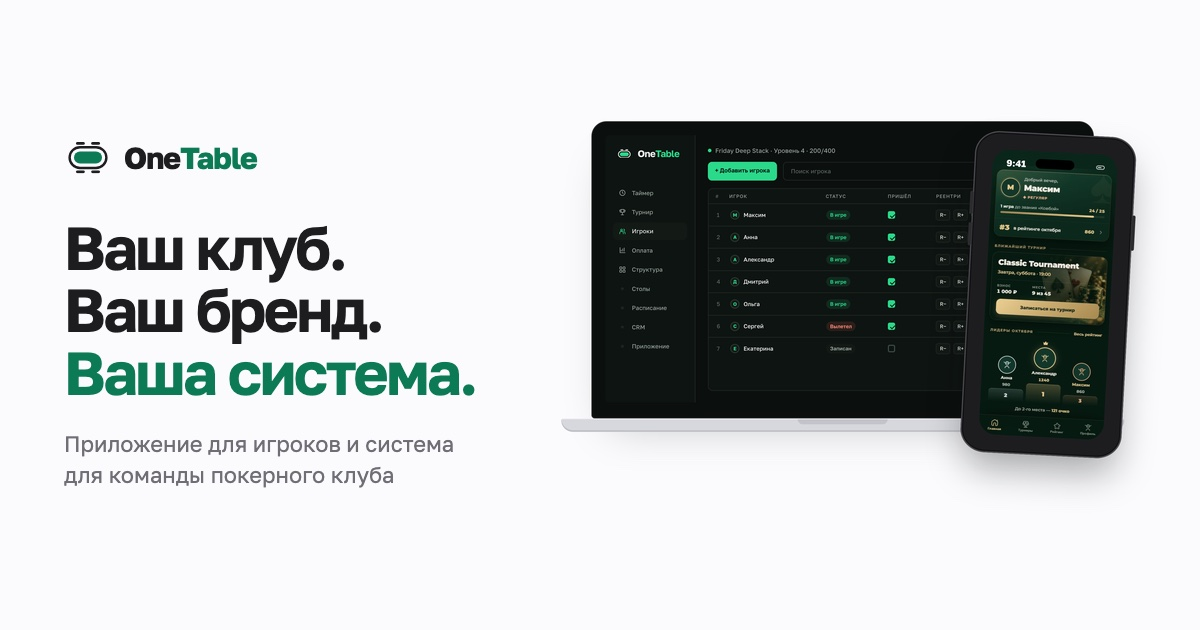
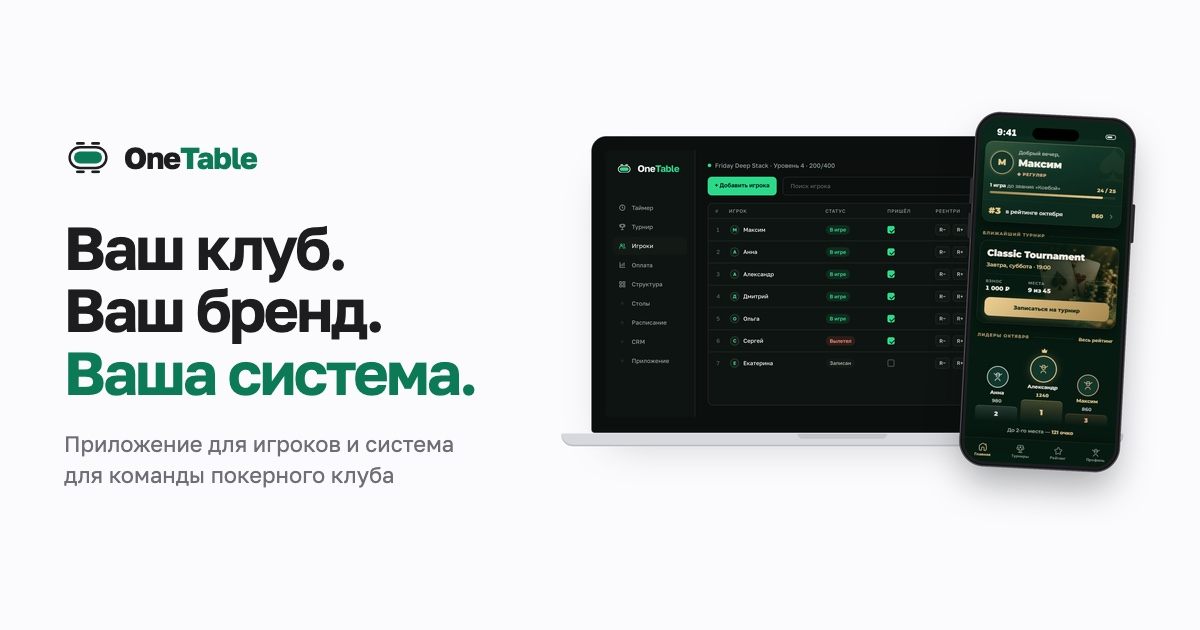
iPhone: thin pixel bezel so the app fills the screen; visible «Смотреть 90 секунд» pill; poster and og-image re-rendered

diff --git a/index.html b/index.html
@@ -6,11 +6,11 @@
 <link rel="canonical" href="https://frimarion.github.io/onetable/">
 <meta property="og:type" content="website"><meta property="og:site_name" content="OneTable"><meta property="og:locale" content="ru_RU">
 <meta property="og:title" content="OneTable — платформа для управления покерным клубом"><meta property="og:description" content="Приложение под брендом вашего клуба и покерная система: таймер, турниры, админ-панель и CRM — в одной платформе."><meta property="og:url" content="https://frimarion.github.io/onetable/">
-<meta property="og:image" content="https://frimarion.github.io/onetable/og-image.jpg?v=3"><meta property="og:image:type" content="image/jpeg"><meta property="og:image:width" content="1200"><meta property="og:image:height" content="630"><meta property="og:image:alt" content="OneTable: админ-панель и мобильное приложение игрока покерного клуба">
-<meta name="twitter:card" content="summary_large_image"><meta name="twitter:title" content="OneTable — платформа для управления покерным клубом"><meta name="twitter:description" content="Приложение под брендом вашего клуба и покерная система: таймер, турниры, админ-панель и CRM — в одной платформе."><meta name="twitter:image" content="https://frimarion.github.io/onetable/og-image.jpg?v=3">
+<meta property="og:image" content="https://frimarion.github.io/onetable/og-image.jpg?v=4"><meta property="og:image:type" content="image/jpeg"><meta property="og:image:width" content="1200"><meta property="og:image:height" content="630"><meta property="og:image:alt" content="OneTable: админ-панель и мобильное приложение игрока покерного клуба">
+<meta name="twitter:card" content="summary_large_image"><meta name="twitter:title" content="OneTable — платформа для управления покерным клубом"><meta name="twitter:description" content="Приложение под брендом вашего клуба и покерная система: таймер, турниры, админ-панель и CRM — в одной платформе."><meta name="twitter:image" content="https://frimarion.github.io/onetable/og-image.jpg?v=4">
 <title>OneTable — платформа для управления покерным клубом</title>
 <meta name="description" content="Приложение под брендом вашего клуба и покерная система: таймер, турниры, админ-панель и CRM — в одной платформе.">
-<link rel="icon" href="logo.svg" type="image/svg+xml"><link rel="preconnect" href="https://fonts.googleapis.com"><link rel="preconnect" href="https://fonts.gstatic.com" crossorigin><link rel="stylesheet" href="https://fonts.googleapis.com/css2?family=Golos+Text:wght@400..750&family=JetBrains+Mono:wght@500&display=swap"><link rel="stylesheet" href="site.css?v=35">
+<link rel="icon" href="logo.svg" type="image/svg+xml"><link rel="preconnect" href="https://fonts.googleapis.com"><link rel="preconnect" href="https://fonts.gstatic.com" crossorigin><link rel="stylesheet" href="https://fonts.googleapis.com/css2?family=Golos+Text:wght@400..750&family=JetBrains+Mono:wght@500&display=swap"><link rel="stylesheet" href="site.css?v=36">
 </head>
 <body>
 <svg class="svg-library" xmlns="http://www.w3.org/2000/svg"><symbol id="arrow" viewBox="0 0 24 24"><path d="M5 12h14m-5-5 5 5-5 5"/></symbol><symbol id="check" viewBox="0 0 24 24"><path d="m5 12 4 4L19 6"/></symbol><symbol id="grid" viewBox="0 0 24 24"><rect x="3" y="3" width="7" height="7" rx="2"/><rect x="14" y="3" width="7" height="7" rx="2"/><rect x="3" y="14" width="7" height="7" rx="2"/><rect x="14" y="14" width="7" height="7" rx="2"/></symbol><symbol id="users" viewBox="0 0 24 24"><circle cx="9" cy="8" r="3"/><path d="M3 21v-3a6 6 0 0 1 12 0v3m1-16a3 3 0 0 1 0 6m2 3a5 5 0 0 1 3 5v2"/></symbol><symbol id="chart" viewBox="0 0 24 24"><path d="M4 3v17h17M8 15v-4m5 4V7m5 8V4"/></symbol><symbol id="clock" viewBox="0 0 24 24"><circle cx="12" cy="12" r="9"/><path d="M12 7v5l3 2"/></symbol><symbol id="cup" viewBox="0 0 24 24"><path d="M7 3h10v5a5 5 0 0 1-10 0V3Zm0 2H3v3a4 4 0 0 0 5 4m9-7h4v3a4 4 0 0 1-5 4m-4 1v7m-4 1h8"/></symbol><symbol id="play" viewBox="0 0 24 24"><path d="m9 5 11 7-11 7Z"/></symbol></svg>
@@ -25,11 +25,11 @@
 <figure class="trust-quote is-placeholder"><blockquote><p>«Здесь будет цитата владельца или администратора клуба: что изменилось в работе после перехода на OneTable.»</p></blockquote><figcaption><span class="quote-mark" aria-hidden="true">Д</span><span><b>Имя Фамилия</b><small>Должность, название клуба</small></span></figcaption></figure>
 </div></section>
 <section class="section app-section" id="app"><div class="container app-layout"><div class="app-art"><div class="app-phone iphone" id="brand-phone"><div class="iphone-screen"><span class="iphone-island" aria-hidden="true"></span><span class="iphone-status" aria-hidden="true"><b>9:41</b><i></i></span><button class="screen-zoom" data-screen="doyle-player-home.png" data-title="Приложение Doyle: профиль, турнир и рейтинг" aria-label="Увеличить экран: приложение Doyle"><img src="doyle-player-home.png" alt="Приложение клуба Doyle: профиль игрока, ближайший турнир и рейтинг" width="390" height="844" loading="lazy"></button><span class="brand-tint" aria-hidden="true"></span></div></div><span class="app-caption">Реальный экран приложения Doyle</span></div><div class="app-copy"><div class="eyebrow">01 / ПРИЛОЖЕНИЕ ВАШЕГО КЛУБА</div><h2>Ваше приложение. <br><span class="green">Для ваших игроков.</span></h2><p>От первой записи до следующей победы. Расписание, личный прогресс и жизнь клуба — в приложении с вашим названием и стилем.</p><ul class="check-list"><li>Название, логотип и цвета вашего клуба</li><li>Запись на турнир с телефона</li><li>Профиль, уровни, достижения и рейтинг</li><li>Анонсы и итоги турниров в Telegram</li></ul><div class="brand-picker"><span>Примерьте цвет клуба</span><div role="group" aria-label="Цвет оформления приложения"><button class="swatch selected" style="--swatch:#0B7A55" data-color="" aria-label="Зелёный, как у Doyle" aria-pressed="true"></button><button class="swatch" style="--swatch:#F25A0A" data-color="#F25A0A" aria-label="Оранжевый" aria-pressed="false"></button><button class="swatch" style="--swatch:#2F6BFF" data-color="#2F6BFF" aria-label="Синий" aria-pressed="false"></button><button class="swatch" style="--swatch:#C4231A" data-color="#C4231A" aria-label="Красный" aria-pressed="false"></button></div></div><a class="inline-link" href="#contact" data-contact>Хочу такое для своего клуба <svg><use href="#arrow"/></svg></a></div></div></section><section class="section system-section" id="system"><div class="container"><div class="section-heading"><div><div class="eyebrow">02 / СИСТЕМА ДЛЯ КОМАНДЫ</div><h2>Одно приложение. <br><span class="muted-heading">У каждого — свои инструменты.</span></h2></div><p>Админ-панель, таймер, CRM и отчёты работают вместе с приложением игроков. Выберите роль — покажем, с чем она работает.</p></div><div class="system-layout"><div class="role-tabs" role="tablist" aria-label="Роли в клубе"><button class="role-tab active" role="tab" id="role-tab-admin" aria-controls="role-panel-admin" aria-selected="true" tabindex="0"><img class="role-tab-persona" src="role-admin.webp?v=2" alt="" width="295" height="640" loading="lazy" decoding="async"><span class="role-tab-body"><small>АДМИНИСТРАТОР</small><span class="role-tab-point">Записи и регистрация игроков</span><span class="role-tab-point">Отметка прихода и рассадка по столам</span><span class="role-tab-point">Реентри, вылеты и оплаты в одном месте</span></span></button><button class="role-tab" role="tab" id="role-tab-floor" aria-controls="role-panel-floor" aria-selected="false" tabindex="-1"><img class="role-tab-persona" src="role-floor.webp?v=2" alt="" width="330" height="640" loading="lazy" decoding="async"><span class="role-tab-body"><small>ФЛОР</small><span class="role-tab-point">Настраиваемый таймер и структура блайндов</span><span class="role-tab-point">Экран для зала в стиле вашего клуба</span><span class="role-tab-point">Учёт вылетов и реентри по ходу игры</span></span></button><button class="role-tab" role="tab" id="role-tab-owner" aria-controls="role-panel-owner" aria-selected="false" tabindex="-1"><img class="role-tab-persona" src="role-owner.webp?v=2" alt="" width="278" height="640" loading="lazy" decoding="async"><span class="role-tab-body"><small>ВЛАДЕЛЕЦ</small><span class="role-tab-point">CRM и база игроков клуба</span><span class="role-tab-point">Результаты турниров и рейтинг</span><span class="role-tab-point">Отчёт по оплатам — в Excel или Google Таблицы</span></span></button></div><div class="role-panels"><div class="role-panel" role="tabpanel" id="role-panel-admin" aria-labelledby="role-tab-admin"><div class="role-stage"><span class="role-kicker">АДМИН-ПАНЕЛЬ · ONETABLE</span><div class="role-screen role-screen-mock"><div class="admin-mock" role="img" aria-label="Панель администратора OneTable: список игроков турнира, отметка прихода и реентри"><aside class="am-side"><div class="am-logo"><img src="logo-dark.svg" alt=""><b>One<span>Table</span></b></div><ul><li><svg><use href="#clock"/></svg>Таймер</li><li><svg><use href="#cup"/></svg>Турнир</li><li class="on"><svg><use href="#users"/></svg>Игроки</li><li><svg><use href="#chart"/></svg>Оплата</li><li><svg><use href="#grid"/></svg>Структура</li><li><i></i>Столы</li><li><i></i>Расписание</li><li><i></i>CRM</li><li><i></i>Приложение</li></ul></aside><div class="am-main"><div class="am-top"><span class="am-live"><i></i>Friday Deep Stack · Уровень 4 · 200/400</span><span class="am-count">Игроки <b>24 / 45</b></span></div><div class="am-tools"><span class="am-add">+ Добавить игрока</span><span class="am-search">Поиск игрока</span></div><div class="am-table"><div class="am-row am-head"><span>#</span><span>Игрок</span><span>Статус</span><span>Пришёл</span><span>Реентри</span><span>KO</span></div><div class="am-row"><span>1</span><span class="am-player"><b>М</b>Максим</span><span class="am-status">В игре</span><span class="am-check on"></span><span class="am-re"><em>R−</em><em>R+</em><small>×1</small></span><span>0</span></div><div class="am-row"><span>2</span><span class="am-player"><b>А</b>Анна</span><span class="am-status">В игре</span><span class="am-check on"></span><span class="am-re"><em>R−</em><em>R+</em></span><span>0</span></div><div class="am-row"><span>3</span><span class="am-player"><b>А</b>Александр</span><span class="am-status">В игре</span><span class="am-check on"></span><span class="am-re"><em>R−</em><em>R+</em></span><span>0</span></div><div class="am-row"><span>4</span><span class="am-player"><b>Д</b>Дмитрий</span><span class="am-status">В игре</span><span class="am-check on"></span><span class="am-re"><em>R−</em><em>R+</em><small>×1</small></span><span>0</span></div><div class="am-row"><span>5</span><span class="am-player"><b>О</b>Ольга</span><span class="am-status">В игре</span><span class="am-check on"></span><span class="am-re"><em>R−</em><em>R+</em></span><span>0</span></div><div class="am-row"><span>6</span><span class="am-player"><b>С</b>Сергей</span><span class="am-status out">Вылетел</span><span class="am-check on"></span><span class="am-re"><em>R−</em><em>R+</em></span><span>0</span></div><div class="am-row"><span>7</span><span class="am-player"><b>Е</b>Екатерина</span><span class="am-status wait">Записан</span><span class="am-check"></span><span class="am-re"><em>R−</em><em>R+</em></span><span>0</span></div></div></div></div></div></div></div><div class="role-panel" role="tabpanel" id="role-panel-floor" aria-labelledby="role-tab-floor" hidden><div class="role-stage"><span class="role-kicker">ЭКРАН ТАЙМЕРА · DOYLE</span><button class="screen-zoom role-screen" data-screen="doyle-display.jpg?v=2" data-title="Doyle — экран таймера в зале" aria-label="Увеличить экран: таймер турнира"><img src="doyle-display.jpg?v=2" alt="Экран таймера Doyle: рейтинг с очками, уровень, блайнды, время и показатели турнира" width="1920" height="1080" loading="lazy"><span class="zoom-hint">Открыть экран ↗</span></button></div></div><div class="role-panel" role="tabpanel" id="role-panel-owner" aria-labelledby="role-tab-owner" hidden><div class="role-stage"><span class="role-kicker">ОТЧЁТ ВЛАДЕЛЬЦА</span><div class="role-screen owner-report" aria-label="Пример отчёта владельца"><div class="owner-head"><b>Обзор клуба</b><span>ИГРОВОЙ ДЕНЬ · ПРИМЕР</span></div><small>Учтено оплат</small><strong>48 000 <span>₽</span></strong><div class="owner-bars" aria-hidden="true"><i style="--h:32%"></i><i style="--h:56%"></i><i style="--h:42%"></i><i style="--h:80%"></i><i style="--h:62%"></i><i style="--h:95%"></i><i style="--h:74%"></i></div><div class="owner-stats"><span><b>36</b> участий</span><span><b>12</b> реентри</span><span><b>48</b> оплат</span></div></div></div></div></div></div></div></section><section class="section workflow" id="workflow"><div class="container"><div class="section-heading"><div><div class="eyebrow">03 / КАК ЭТО РАБОТАЕТ ВМЕСТЕ</div><h2>Один игровой вечер. <br><span class="muted-heading">Без десятка инструментов.</span></h2></div><p>От анонса до итогов — одна система. Данные не нужно переносить между чатами, таблицами и тетрадками.</p></div><div class="day-timeline" aria-label="Пример игрового вечера в OneTable"><div class="tl-head"><span><span class="status-dot"></span> ПЯТНИЦА · FRIDAY DEEP STACK</span><span>ПРИМЕР ВЕЧЕРА</span></div><ol class="tl-list"><li><time>12:00</time><b>Анонс ушёл в Telegram</b><span>Турнир опубликован из макета. Игроки видят его в приложении клуба.</span></li><li><time>15:40</time><b>Запись идёт сама</b><span>24 игрока записались с телефона — без звонков и переписки.</span></li><li><time>18:45</time><b>Гости на месте</b><span>Администратор отмечает пришедших и рассаживает их по столам.</span></li><li class="is-live"><time>19:00</time><b>Таймер запущен</b><span>Уровни и блайнды на экране зала. Реентри и вылеты учитываются по ходу игры.</span></li><li><time>00:20</time><b>Итоги без ручного подсчёта</b><span>Результаты попали в рейтинг и канал клуба, отчёт по оплатам — в таблицу.</span></li></ol></div></div></section>
-<section class="video-section"><div class="container"><div class="video-heading"><div><div class="eyebrow">ПОСМОТРЕТЬ В ДЕЛЕ</div><h2>Весь клуб. <br>За полторы минуты.</h2></div><p>Реальный сценарий работы платформы: <br>от создания турнира до отчёта.</p></div><button class="video-preview" data-video aria-label="Смотреть видеопрезентацию OneTable"><img src="demo-poster.jpg?v=3" alt="Кадр видеопрезентации: приложение игрока и панель организатора" loading="lazy"><span class="video-shade"></span><span class="video-play"><svg><use href="#play"/></svg></span><span class="video-bottom"><b>Познакомьтесь с OneTable</b><span>01:30 <span>↗</span></span></span></button></div></section>
+<section class="video-section"><div class="container"><div class="video-heading"><div><div class="eyebrow">ПОСМОТРЕТЬ В ДЕЛЕ</div><h2>Весь клуб. <br>За полторы минуты.</h2></div><p>Реальный сценарий работы платформы: <br>от создания турнира до отчёта.</p></div><button class="video-preview" data-video aria-label="Смотреть видеопрезентацию OneTable"><img src="demo-poster.jpg?v=4" alt="Кадр видеопрезентации: приложение игрока и панель организатора" loading="lazy"><span class="video-shade"></span><span class="video-play"><svg><use href="#play"/></svg></span><span class="video-bottom"><b>Познакомьтесь с OneTable</b><span>01:30 <span>↗</span></span></span></button></div></section>
 <section class="faq-section"><div class="container faq-grid"><div><div class="eyebrow">ОСТАЛОСЬ УТОЧНИТЬ</div><h2>Хорошие <br>вопросы.</h2></div><div class="faq-list"><details><summary>Что входит в покерную систему?<span>+</span></summary><p>Админ-панель, CRM, настраиваемый таймер, инструменты для турниров и рассадки, учёт участий и оплат, рейтинги и отчёты. Система связана с приложением для игроков, которое оформляем под ваш клуб.</p></details><details><summary>Это покер-рум для игры онлайн?<span>+</span></summary><p>OneTable — платформа для организации работы очного покерного клуба. В неё входят приложение для игроков под брендом клуба, настраиваемый таймер, админ-панель, CRM, управление турнирами и учёт.</p></details><details><summary>Можно использовать название и стиль моего клуба?<span>+</span></summary><p>Да. Создаём приложение с названием, логотипом и цветами вашего клуба. Оформление таймера также можно кастомизировать под фирменный стиль.</p></details><details><summary>Как платформа работает с Telegram?<span>+</span></summary><p>Бот публикует анонсы и итоги турниров в канале клуба. Игроки получают доступ к расписанию и записи через приложение.</p></details><details><summary>Можно выгрузить отчёты?<span>+</span></summary><p>Отчёт по оплатам можно выгрузить для дальнейшей работы в Excel или Google Таблицах.</p></details><details><summary>Что нужно от клуба, чтобы начать?<span>+</span></summary><p>Для приложения — название, логотип и цвета клуба. Для системы — ваш формат турниров: структура блайндов, взносы и правила реентри. Остальное настроим вместе при подключении.</p></details><details><summary>С чего начать и сколько это стоит?<span>+</span></summary><p>Начнём с демонстрации и обсуждения ваших процессов: формата турниров, работы администратора и приложения игроков. Состав решения и стоимость обсудим после знакомства с вашим клубом.</p></details></div></div></section>
 <section class="contact-section" id="contact"><div class="container"><div class="contact-inner"><div class="eyebrow"><span class="status-dot"></span> СЛЕДУЮЩИЙ ХОД — ЗА ВАМИ</div><h2>Давайте соберём <br>ваш клуб в <span>OneTable.</span></h2><p>Обсудим приложение под ваш бренд <br>и систему для всей команды клуба.</p><button class="button button-green" id="contact-open">Подключиться <svg><use href="#arrow"/></svg></button><span class="contact-subline">Начнём с ваших задач.</span></div></div></section>
 </main><footer><div class="container footer-inner"><a class="brand" href="#"><img src="logo.svg" width="40" height="27" alt=""><span>One<span class="green">Table</span></span></a><span>Меньше рутины. Больше игры.</span><span>© <span id="year">2026</span> OneTable</span><a href="#">Наверх ↑</a></div></footer>
-<dialog id="video-dialog" aria-label="Видеопрезентация OneTable"><button class="dialog-close" aria-label="Закрыть видео">×</button><video controls playsinline preload="none" poster="demo-poster.jpg?v=3"><source src="onetable-demo.mp4" type="video/mp4"></video></dialog>
+<dialog id="video-dialog" aria-label="Видеопрезентация OneTable"><button class="dialog-close" aria-label="Закрыть видео">×</button><video controls playsinline preload="none" poster="demo-poster.jpg?v=4"><source src="onetable-demo.mp4" type="video/mp4"></video></dialog>
 <dialog id="contact-dialog" aria-labelledby="contact-title"><button class="dialog-close" aria-label="Закрыть окно">×</button><div class="eyebrow">ЗНАКОМСТВО С ONETABLE</div><h2 id="contact-title">Расскажите <br>о вашем клубе.</h2><p>Оставьте контакт — мы свяжемся, покажем систему и обсудим приложение под ваш бренд.</p>
 <form id="contact-form" class="contact-form" novalidate><label><span>Название клуба</span><input name="club" type="text" autocomplete="organization" required placeholder="Например, Doyle Poker"></label><label><span>Город</span><input name="city" type="text" autocomplete="address-level2" placeholder="Где находится клуб"></label><label><span>Как с вами связаться</span><input name="contact" type="text" autocomplete="off" required placeholder="Telegram @username или телефон"></label><label><span>Что хотите обсудить <i>(необязательно)</i></span><textarea name="message" rows="3" placeholder="Формат турниров, число игроков, пожелания"></textarea></label><label class="hp" aria-hidden="true">Не заполняйте<input name="website" type="text" tabindex="-1" autocomplete="off"></label><button class="button button-green" type="submit"><span class="submit-label">Отправить заявку</span> <svg><use href="#arrow"/></svg></button><p class="form-status" id="form-status" role="status" aria-live="polite"></p></form>
 <div class="form-done" id="form-done" hidden><span class="notice-icon">✓</span><h3>Заявка отправлена</h3><p>Спасибо! Мы свяжемся с вами по указанному контакту.</p><button class="button button-green" type="button" data-close-dialog>Закрыть</button></div>

diff --git a/site.css b/site.css
@@ -2935,3 +2935,52 @@ footer .brand .green {
 .role-screen {
   aspect-ratio: 16/9;
 }
+
+/* iPhone: тонкая рамка в пикселях (проценты в padding считаются от родителя, рамка выходила слишком толстой) */
+.iphone {
+  padding: 7px;
+}
+.hero-phone.iphone {
+  padding: 6px;
+}
+@media (max-width: 640px) {
+  .hero-phone.iphone {
+    padding: 4px;
+  }
+}
+
+/* «Смотреть 90 секунд»: заметная вторая кнопка-пилюля */
+.hero-actions .text-button {
+  gap: 12px;
+  padding: 10px 22px 10px 10px;
+  border: 1px solid var(--line);
+  border-radius: 980px;
+  background: var(--surface);
+  color: var(--ink);
+  font-size: 16px;
+  font-weight: 500;
+  box-shadow: 0 6px 18px -10px #0b0f0d40;
+  transition: border-color .2s, box-shadow .2s;
+  cursor: pointer;
+}
+.hero-actions .text-button:hover {
+  border-color: #c9c9cf;
+  box-shadow: 0 10px 24px -12px #0b0f0d59;
+}
+.hero-actions .play-small {
+  width: 34px;
+  height: 34px;
+  border: 0;
+  background: var(--ink);
+  color: #fff;
+  font-size: 11px;
+  padding-left: 3px;
+}
+.hero-actions .text-button:hover .play-small {
+  background: var(--accent);
+  color: #fff;
+}
+.hero-actions .text-button:focus-visible {
+  outline: 2px solid var(--accent);
+  outline-offset: 2px;
+}
